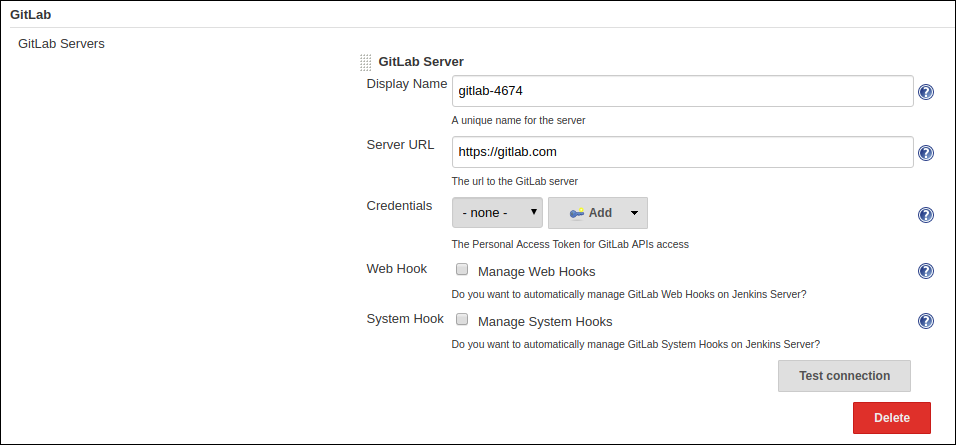
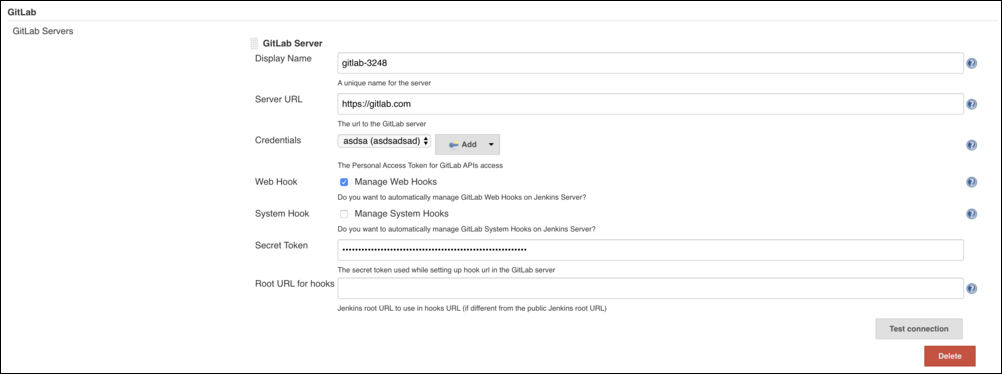
[JENKINS-62375] Fix/secret token (#91)
* Add secret token to webhook creation and validation to WebhookAction

* Add modify ste createMissingHookUrl

* Make secretToken of type Secret, check NPE, fix minor bugs (based on Joseph suggestion

* Fix static bugs

* Remove static RANDOM variable, move inside generateSecretToken

* Add documentation

* Add generate secret token but since secret field so unable to set it from JS

* Abandon efforts to add generate button to UI

* Fix validToken check when X-GitLab-Token header not set

diff --git a/src/main/resources/io/jenkins/plugins/gitlabserverconfig/servers/GitLabServer/help-secretToken.html b/src/main/resources/io/jenkins/plugins/gitlabserverconfig/servers/GitLabServer/help-secretToken.html
@@ -1,0 +1,3 @@
+<div>
+  The secret token is required to authenticate the webhook payloads received from GitLab Server. Use generate secret token from Advanced options or use your own. If you are a old plugin user and did not set a secret token previously and want secret token to applied to the hooks of your existing jobs, you can add the secret token and rescan your jobs. Existing hooks with new secret token will be applied.
+</div>

diff --git a/src/main/resources/io/jenkins/plugins/gitlabserverconfig/servers/GitLabServer/help-genButton.html b/src/main/resources/io/jenkins/plugins/gitlabserverconfig/servers/GitLabServer/help-genButton.html
@@ -1,0 +1,3 @@
+<div>
+  Use this button to generate a new secret token to be used during hook creation. If older jobs exist they need to be rescanned to update existing hook.
+</div>

diff --git a/src/main/java/io/jenkins/plugins/gitlabbranchsource/GitLabHookCreator.java b/src/main/java/io/jenkins/plugins/gitlabbranchsource/GitLabHookCreator.java
@@ -84,6 +84,7 @@ public class GitLabHookCreator {
                 return;
         }
         String hookUrl = getHookUrl(server, true);
+        String secretToken = server.getSecretToken().getPlainText();
         if (hookUrl.equals("")) {
             return;
         }
@@ -91,7 +92,7 @@ public class GitLabHookCreator {
             try {
                 GitLabApi gitLabApi = new GitLabApi(server.getServerUrl(),
                     credentials.getToken().getPlainText());
-                createWebHookWhenMissing(gitLabApi, source.getProjectPath(), hookUrl);
+                createWebHookWhenMissing(gitLabApi, source.getProjectPath(), hookUrl, secretToken);
             } catch (GitLabApiException e) {
                 LOGGER.log(Level.WARNING,
                     "Could not manage project hooks for " + source.getProjectPath() + " on "
@@ -137,7 +138,7 @@ public class GitLabHookCreator {
                 .findFirst()
                 .orElse(null);
             if (systemHook == null) {
-                gitLabApi.getSystemHooksApi().addSystemHook(systemHookUrl, "",
+                gitLabApi.getSystemHooksApi().addSystemHook(systemHookUrl, server.getSecretToken().getPlainText(),
                     false, false, false);
             }
         } catch (GitLabApiException e) {
@@ -201,21 +202,25 @@ public class GitLabHookCreator {
         enabledHooks.setMergeRequestsEvents(true);
         enabledHooks.setTagPushEvents(true);
         enabledHooks.setNoteEvents(true);
-        enabledHooks.setEnableSslVerification(false);
-        // TODO add secret token, add more events give option for sslVerification
         return enabledHooks;
     }
 
     public static String createWebHookWhenMissing(GitLabApi gitLabApi, String project,
-        String hookUrl)
+        String hookUrl, String secretToken)
         throws GitLabApiException {
         ProjectHook projectHook = gitLabApi.getProjectApi().getHooksStream(project)
             .filter(hook -> hookUrl.equals(hook.getUrl()))
             .findFirst()
             .orElseGet(GitLabHookCreator::createWebHook);
         if (projectHook.getId() == null) {
-            gitLabApi.getProjectApi().addHook(project, hookUrl, projectHook, false, "");
+            gitLabApi.getProjectApi().addHook(project, hookUrl, projectHook, false, secretToken);
             return "created";
+        }
+        // Primarily done due to legacy reason, secret token might not be configured in previous releases. So setting up hook url with the token.
+        if(!(projectHook.getToken().equals(secretToken))) {
+            projectHook.setToken(secretToken);
+            gitLabApi.getProjectApi().modifyHook(projectHook);
+            return "modified";
         }
         return "already created";
     }

diff --git a/src/main/java/io/jenkins/plugins/gitlabbranchsource/GitLabWebHookAction.java b/src/main/java/io/jenkins/plugins/gitlabbranchsource/GitLabWebHookAction.java
@@ -4,7 +4,11 @@ import hudson.Extension;
 import hudson.model.UnprotectedRootAction;
 import hudson.security.csrf.CrumbExclusion;
 import hudson.util.HttpResponses;
+import io.jenkins.plugins.gitlabserverconfig.servers.GitLabServer;
+import io.jenkins.plugins.gitlabserverconfig.servers.GitLabServers;
 import java.io.IOException;
+import java.util.List;
+import java.util.logging.Level;
 import java.util.logging.Logger;
 import javax.servlet.FilterChain;
 import javax.servlet.ServletException;
@@ -66,10 +70,29 @@ public final class GitLabWebHookAction extends CrumbExclusion implements Unprote
             return HttpResponses.error(HttpServletResponse.SC_BAD_REQUEST,
                 "Expecting a GitLab event, missing expected X-Gitlab-Event header");
         }
+        String secretToken = request.getHeader("X-Gitlab-Token");
+        if(!isValidToken(secretToken)) {
+            return HttpResponses.error(HttpServletResponse.SC_UNAUTHORIZED,
+                "Expecting a valid secret token");
+        }
         String origin = SCMEvent.originOf(request);
         WebHookManager webHookManager = new WebHookManager();
         webHookManager.addListener(new GitLabWebHookListener(origin));
         webHookManager.handleEvent(request);
         return HttpResponses.ok(); // TODO find a better response
+    }
+
+    private boolean isValidToken(String secretToken) {
+        try {
+            List<GitLabServer> servers = GitLabServers.get().getServers();
+            for(GitLabServer server: servers) {
+                if(server.getSecretToken().getPlainText().equals(secretToken) || (server.getSecretToken().getPlainText().isEmpty() && secretToken == null)) {
+                    return true;
+                }
+            }
+        } catch (Exception e) {
+            LOGGER.log(Level.WARNING, String.format("Error while validating token: %s", e.getMessage()));
+        }
+        return false;
     }
 }

diff --git a/src/main/java/io/jenkins/plugins/gitlabbranchsource/GitLabSystemHookAction.java b/src/main/java/io/jenkins/plugins/gitlabbranchsource/GitLabSystemHookAction.java
@@ -4,7 +4,11 @@ import hudson.Extension;
 import hudson.model.UnprotectedRootAction;
 import hudson.security.csrf.CrumbExclusion;
 import hudson.util.HttpResponses;
+import io.jenkins.plugins.gitlabserverconfig.servers.GitLabServer;
+import io.jenkins.plugins.gitlabserverconfig.servers.GitLabServers;
 import java.io.IOException;
+import java.util.List;
+import java.util.logging.Level;
 import java.util.logging.Logger;
 import javax.servlet.FilterChain;
 import javax.servlet.ServletException;
@@ -66,10 +70,29 @@ public final class GitLabSystemHookAction extends CrumbExclusion implements Unpr
             return HttpResponses.error(HttpServletResponse.SC_BAD_REQUEST,
                 "Expecting a GitLab event, missing expected X-Gitlab-Event header");
         }
+        String secretToken = request.getHeader("X-Gitlab-Token");
+        if(!isValidToken(secretToken)) {
+            return HttpResponses.error(HttpServletResponse.SC_UNAUTHORIZED,
+                "Expecting a valid secret token");
+        }
         String origin = SCMEvent.originOf(request);
         SystemHookManager systemHookManager = new SystemHookManager();
         systemHookManager.addListener(new GitLabSystemHookListener(origin));
         systemHookManager.handleEvent(request);
         return HttpResponses.ok(); // TODO find a better response
+    }
+
+    private boolean isValidToken(String secretToken) {
+        try {
+            List<GitLabServer> servers = GitLabServers.get().getServers();
+            for(GitLabServer server: servers) {
+                if(server.getSecretToken().getPlainText().equals(secretToken)) {
+                    return true;
+                }
+            }
+        } catch (Exception e) {
+            LOGGER.log(Level.WARNING, String.format("Error while validating token: %s", e.getMessage()));
+        }
+        return false;
     }
 }

diff --git a/src/main/java/io/jenkins/plugins/gitlabserverconfig/servers/GitLabServer.java b/src/main/java/io/jenkins/plugins/gitlabserverconfig/servers/GitLabServer.java
@@ -14,9 +14,11 @@ import hudson.model.Descriptor;
 import hudson.security.ACL;
 import hudson.util.FormValidation;
 import hudson.util.ListBoxModel;
+import hudson.util.Secret;
 import io.jenkins.plugins.gitlabserverconfig.credentials.PersonalAccessToken;
 import java.net.MalformedURLException;
 import java.net.URL;
+import java.security.SecureRandom;
 import java.util.logging.Level;
 import java.util.logging.Logger;
 import jenkins.model.Jenkins;
@@ -109,6 +111,11 @@ public class GitLabServer extends AbstractDescribableImpl<GitLabServer> {
      * Useful when the main public Jenkins URL can't be accessed from Gitlab.
      */
     private String hooksRootUrl;
+
+    /**
+     * The secret token used while setting up hook url in the GitLab server
+     */
+    private Secret secretToken;
 
     /**
      * Data Bound Constructor for only mandatory parameter serverUrl
@@ -242,12 +249,29 @@ public class GitLabServer extends AbstractDescribableImpl<GitLabServer> {
         return Util.ensureEndsWith(Util.fixEmptyAndTrim(hooksRootUrl), "/");
     }
 
+    @DataBoundSetter
+    public void setSecretToken(Secret token) {
+        this.secretToken = token;
+    }
+
+    // TODO: Use some UI element to trigger (what is the best way?)
+    private void generateSecretToken() {
+        byte[] random = new byte[16];   // 16x8=128bit worth of randomness, since we use md5 digest as the API token
+        SecureRandom RANDOM = new SecureRandom();
+        RANDOM.nextBytes(random);
+        this.secretToken = Secret.decrypt(Util.toHexString(random));
+    }
+
     /**
      * {@inheritDoc}
      */
     @Override
     public DescriptorImpl getDescriptor() {
         return (DescriptorImpl) super.getDescriptor();
+    }
+
+    public Secret getSecretToken() {
+        return secretToken;
     }
 
     /**

diff --git a/src/main/java/io/jenkins/plugins/gitlabbranchsource/GitLabSCMNavigator.java b/src/main/java/io/jenkins/plugins/gitlabbranchsource/GitLabSCMNavigator.java
@@ -266,10 +266,11 @@ public class GitLabSCMNavigator extends SCMNavigator {
                 observer.getListener().getLogger().format("%nChecking project %s%n",
                     HyperlinkNote.encodeTo(p.getWebUrl(), projectName));
                 try {
+                    GitLabServer server = GitLabServers.get().findServer(serverName);
                     if (webhookGitLabApi != null && webHookUrl != null) {
                         observer.getListener().getLogger().format("Web hook %s%n", GitLabHookCreator
                             .createWebHookWhenMissing(webhookGitLabApi, projectPathWithNamespace,
-                                webHookUrl));
+                                webHookUrl, server.getSecretToken().getPlainText()));
                     }
                 } catch (GitLabApiException e) {
                     observer.getListener().getLogger()

diff --git a/README.md b/README.md
@@ -116,23 +116,23 @@ Here are a few ways to setup your own Jenkins server:
 
 You can use any one of these ways:
 
-1. Using [Plugin Management Tool](https://github.com/jenkinsci/plugin-installation-manager-tool)
+1. Install from Jenkins Update Center. Go to Jenkins > Configure > Manage Plugins > Available and search for `gitlab branch source plugin` then select Install.
+    
+2. Using [Plugin Management Tool](https://github.com/jenkinsci/plugin-installation-manager-tool)
 
     ```bash
-    $ java -jar plugin-management-tool.jar
+    java -jar plugin-management-tool.jar
         -p gitlab-branch-source
         -d <path-to-default-jenkins-plugins-directory>
         -w <path-to-jenkins-war>
     ```
-    
-2. Install from Jenkins Update Center. Go to Jenkins > Configure > Manage Plugins > Available and search for `gitlab branch source plugin` then select Install.
 
 3. From Source:
 
     i. Checkout out source code to your local machine:
     
     ```
-    git clone https://github.com/baymac/gitlab-branch-source-plugin.git
+    git clone https://github.com/jenkinsci/gitlab-branch-source-plugin.git
     cd gitlab-branch-source-plugin
     ```
     
@@ -200,6 +200,10 @@ After installing the plugin on your Jenkins instance, you need configure your Gi
     iv. `Mange Web Hook` - If you want the plugin to setup web hook on your GitLab project(s) to get push/mr/tag/note events then check this box. 
     
     iv. `Mange System Hook` - If you want the plugin to setup system hook on your GitLab project(s) to detect if a project is removed then check this box. Remember plugin can only setup system hook on your server if supplied access token has `Admin` access. 
+
+    v. `Secret Token` - The secret token is required to authenticate the webhook payloads received from GitLab Server. Use generate secret token from Advanced options or use your own. If you are a old plugin user and did not set a secret token previously and want secret token to applied to the hooks of your existing jobs, you can add the secret token and rescan your jobs. Existing hooks with new secret token will be applied.
+
+    vi. `Root URL for hooks` - By default Root URL for hooks created by this plugin is your Jenkins instance url. You can modify the root URL in by adding your custom root URL. Leave empty if you want Jenkins URL to be your custom hook url. A path is added to your hook ROOT URL `/gitlab-webhook/post` for webhooks and `/gitlab-systemhook/post` for system hooks.
 
 6. Adding a Personal Access Token Credentials:
 
@@ -345,6 +349,8 @@ unclassified:
         manageSystemHooks: true # access token should have admin access to set system hooks
         name: "gitlab-3214"
         serverUrl: "https://gitlab.com"
+        hookRootUrl: ""
+        secretToken: ""
 ```
 
 See handling secrets [section](https://github.com/jenkinsci/configuration-as-code-plugin#handling-secrets) in JCasC documentation for better security.
